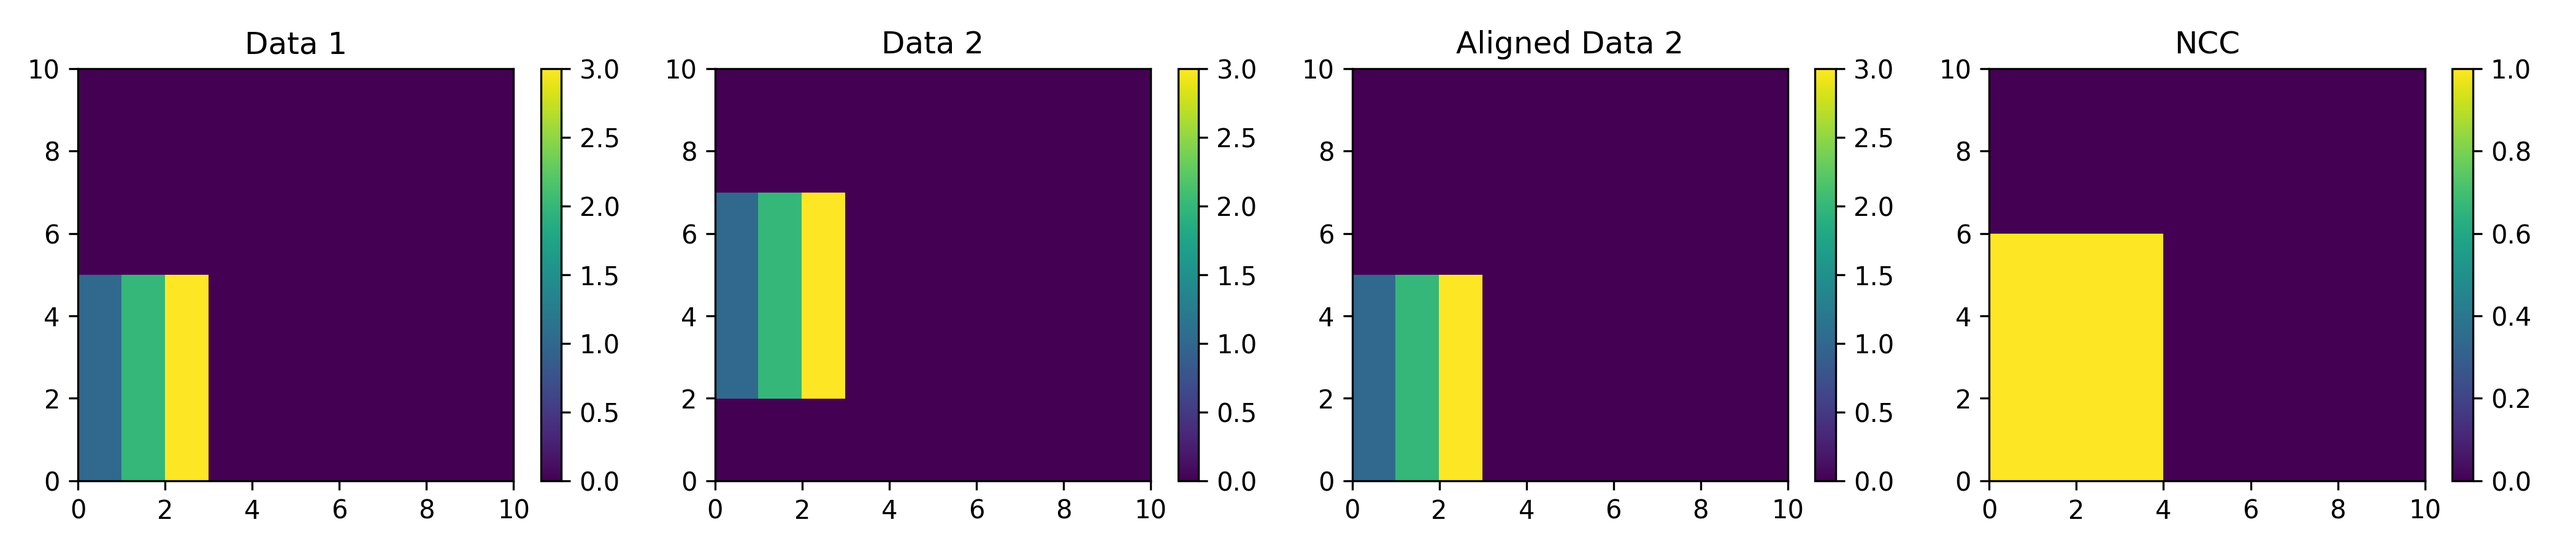
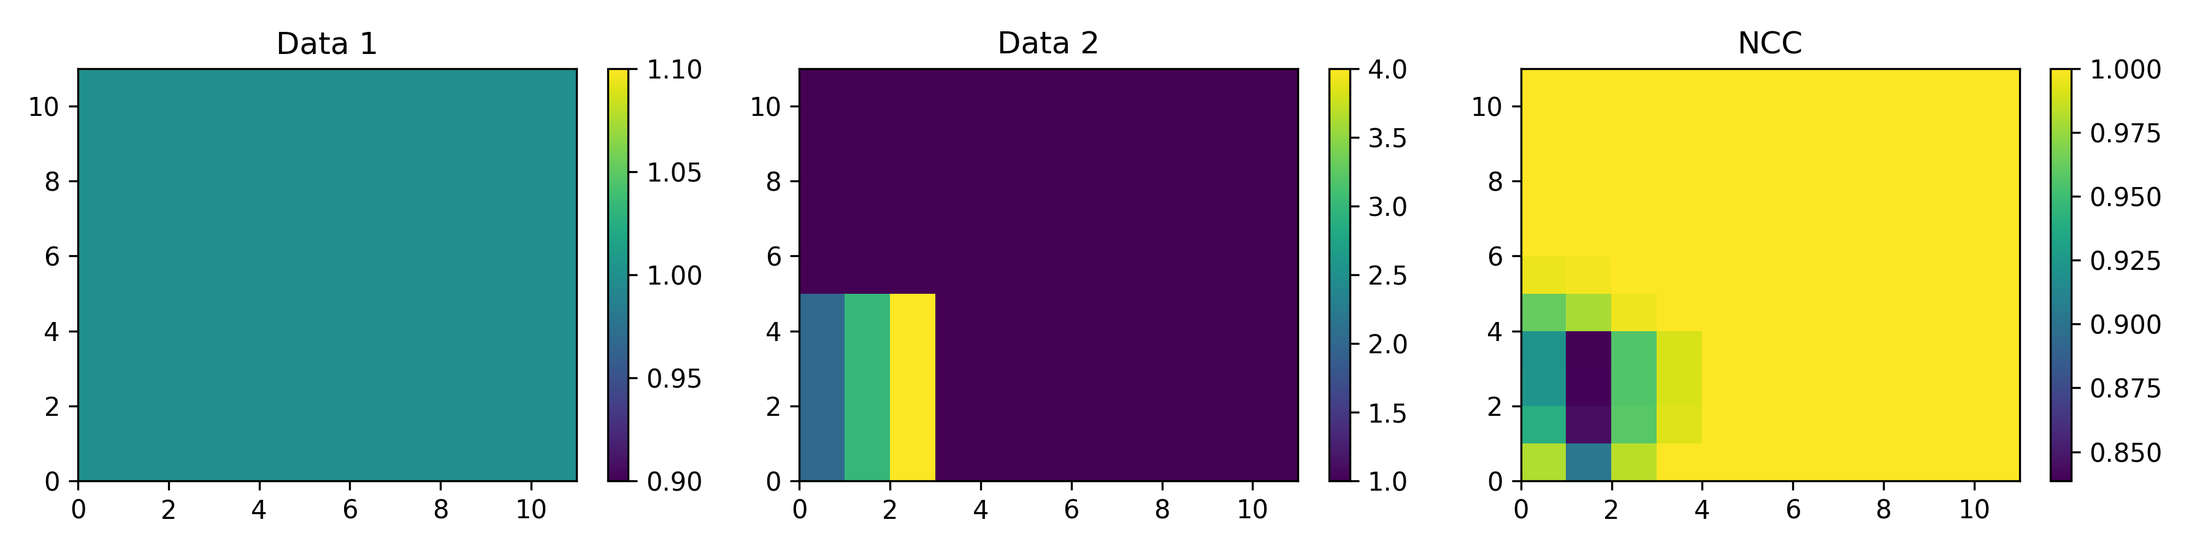
update tests

diff --git a/tests/test_analysis.py b/tests/test_analysis.py
@@ -390,37 +390,42 @@ class CalcTests(unittest.TestCase):
 
     def test_calc_corr2_map(self):
         # Test correlation map
-        data1 = np.zeros((10,10))
-        data2 = np.zeros(data1.shape)
-        for irow in range(5):
-            data1[irow,:3] = np.arange(3)+1
-            data2[irow,:3] = np.arange(3)+1
+        nrows = 11
+        ncols = 11
+        data1 = np.ones((nrows,ncols))
+        data2 = np.ones(data1.shape)
+        knlsz = 3
+        nrows_changed = 5
+        ncols_changed = 3
+        for irow in range(nrows_changed):
+            data2[irow,:ncols_changed] = np.arange(ncols_changed)+2
 
-        NCC, _ = aopy.analysis.calc_corr2_map(data1, data2, 3, False)
+        NCC, _ = aopy.analysis.calc_corr2_map(data1, data2, knlsz, False)
         
-        expected_NCC = np.zeros(data1.shape)
-        expected_NCC[:6,:4] = 1
-        np.testing.assert_allclose(NCC, expected_NCC)
+        knl_offset = int((knlsz-1)/2)
+        # # Check that everyone after the changed rows gives corr=1
+        self.assertAlmostEqual(np.sum(NCC[int(nrows_changed+knl_offset):,0]), int((nrows-(nrows_changed+knl_offset))), 3)
+        # Check that everyone after the changed col gives corr=1
+        self.assertAlmostEqual(np.sum(NCC[0,int(ncols_changed+knl_offset):]), int((ncols-(ncols_changed+knl_offset))), 3)
 
         # Test shifts
         data2_shifted = np.roll(data2, 2, axis=0)
 
-        NCC2, shifts = aopy.analysis.calc_corr2_map(data1,data2_shifted, 3, True)
-        np.testing.assert_allclose(NCC2, expected_NCC)
+        NCC2, shifts = aopy.analysis.calc_corr2_map(data2,data2_shifted, 3, True)
+        np.testing.assert_allclose(NCC2, np.ones((nrows, ncols)))
         self.assertEqual(shifts[0], -2)
         self.assertEqual(shifts[1], 0)
 
-        fig, [ax1, ax2, ax3, ax4] = plt.subplots(1,4, figsize=(14,3))
+        # Plot for example figure 
+        fig, [ax1, ax2, ax4] = plt.subplots(1,3, figsize=(12,3))
         im1 = ax1.pcolor(data1)
         ax1.set(title='Data 1')
         plt.colorbar(im1, ax=ax1)
-        im2 = ax2.pcolor(data2_shifted)
+        im2 = ax2.pcolor(data2)
         ax2.set(title='Data 2')
         plt.colorbar(im2, ax=ax2)
-        im3 = ax3.pcolor(data2)
-        ax3.set(title='Aligned Data 2')
-        plt.colorbar(im3, ax=ax3)
-        im4 = ax4.pcolor(NCC2)
+
+        im4 = ax4.pcolor(NCC)
         ax4.set(title='NCC')
         plt.colorbar(im4, ax=ax4)
         fig.tight_layout()

diff --git a/aopy/analysis/base.py b/aopy/analysis/base.py
@@ -873,10 +873,8 @@ def calc_corr2_map(data1, data2, knlsz=15, align_maps=False):
     maps by finding the location of the peak of the 2D correlation function. Note, if these shifts are unexpectedly high, there
     is likely not high enough correlation between the datamaps and alignment should not be used. This function uses 0-padding for all
     edge conditions and replaces input NaN values with 0 to calculate the correlation map. After the correlation map is calculated,
-    all values were NaN in the input data are again set to NaN.
-
-    The figure below shows two sample misaligned dataset. The third panel shows the aligned data and the right (NCC) panel shows the 
-    correlation map between data1 and the aligned data2 dataset.
+    all values were NaN in the input data are again set to NaN. If a window of data has all 0's, the NCC is set to nan. 
+    Note, the worst correlation in the example image is not at the edge of the image because of zero padding.
 
     .. image:: _images/calc_corr2_map.png
 
@@ -895,7 +893,6 @@ def calc_corr2_map(data1, data2, knlsz=15, align_maps=False):
     # Make sure knlsz is odd
     if knlsz % 2 == 0:
         print('Warning: Kernel size (knlsz) is even in calc_corr2_map')
-
 
     NCC = np.zeros((data1.shape))
     data_sz = data1.shape[0]
@@ -937,7 +934,7 @@ def calc_corr2_map(data1, data2, knlsz=15, align_maps=False):
 
             # If either data subset is all 0's set the NCC to 0
             if np.linalg.norm(data_subset1)==0 or np.linalg.norm(data_subset2)==0:
-                NCC[xx - start_idx, yy - start_idx]
+                NCC[xx - start_idx, yy - start_idx] = np.nan
             else:
                 data_subset1 /= np.linalg.norm(data_subset1)
                 data_subset2 /= np.linalg.norm(data_subset2)
